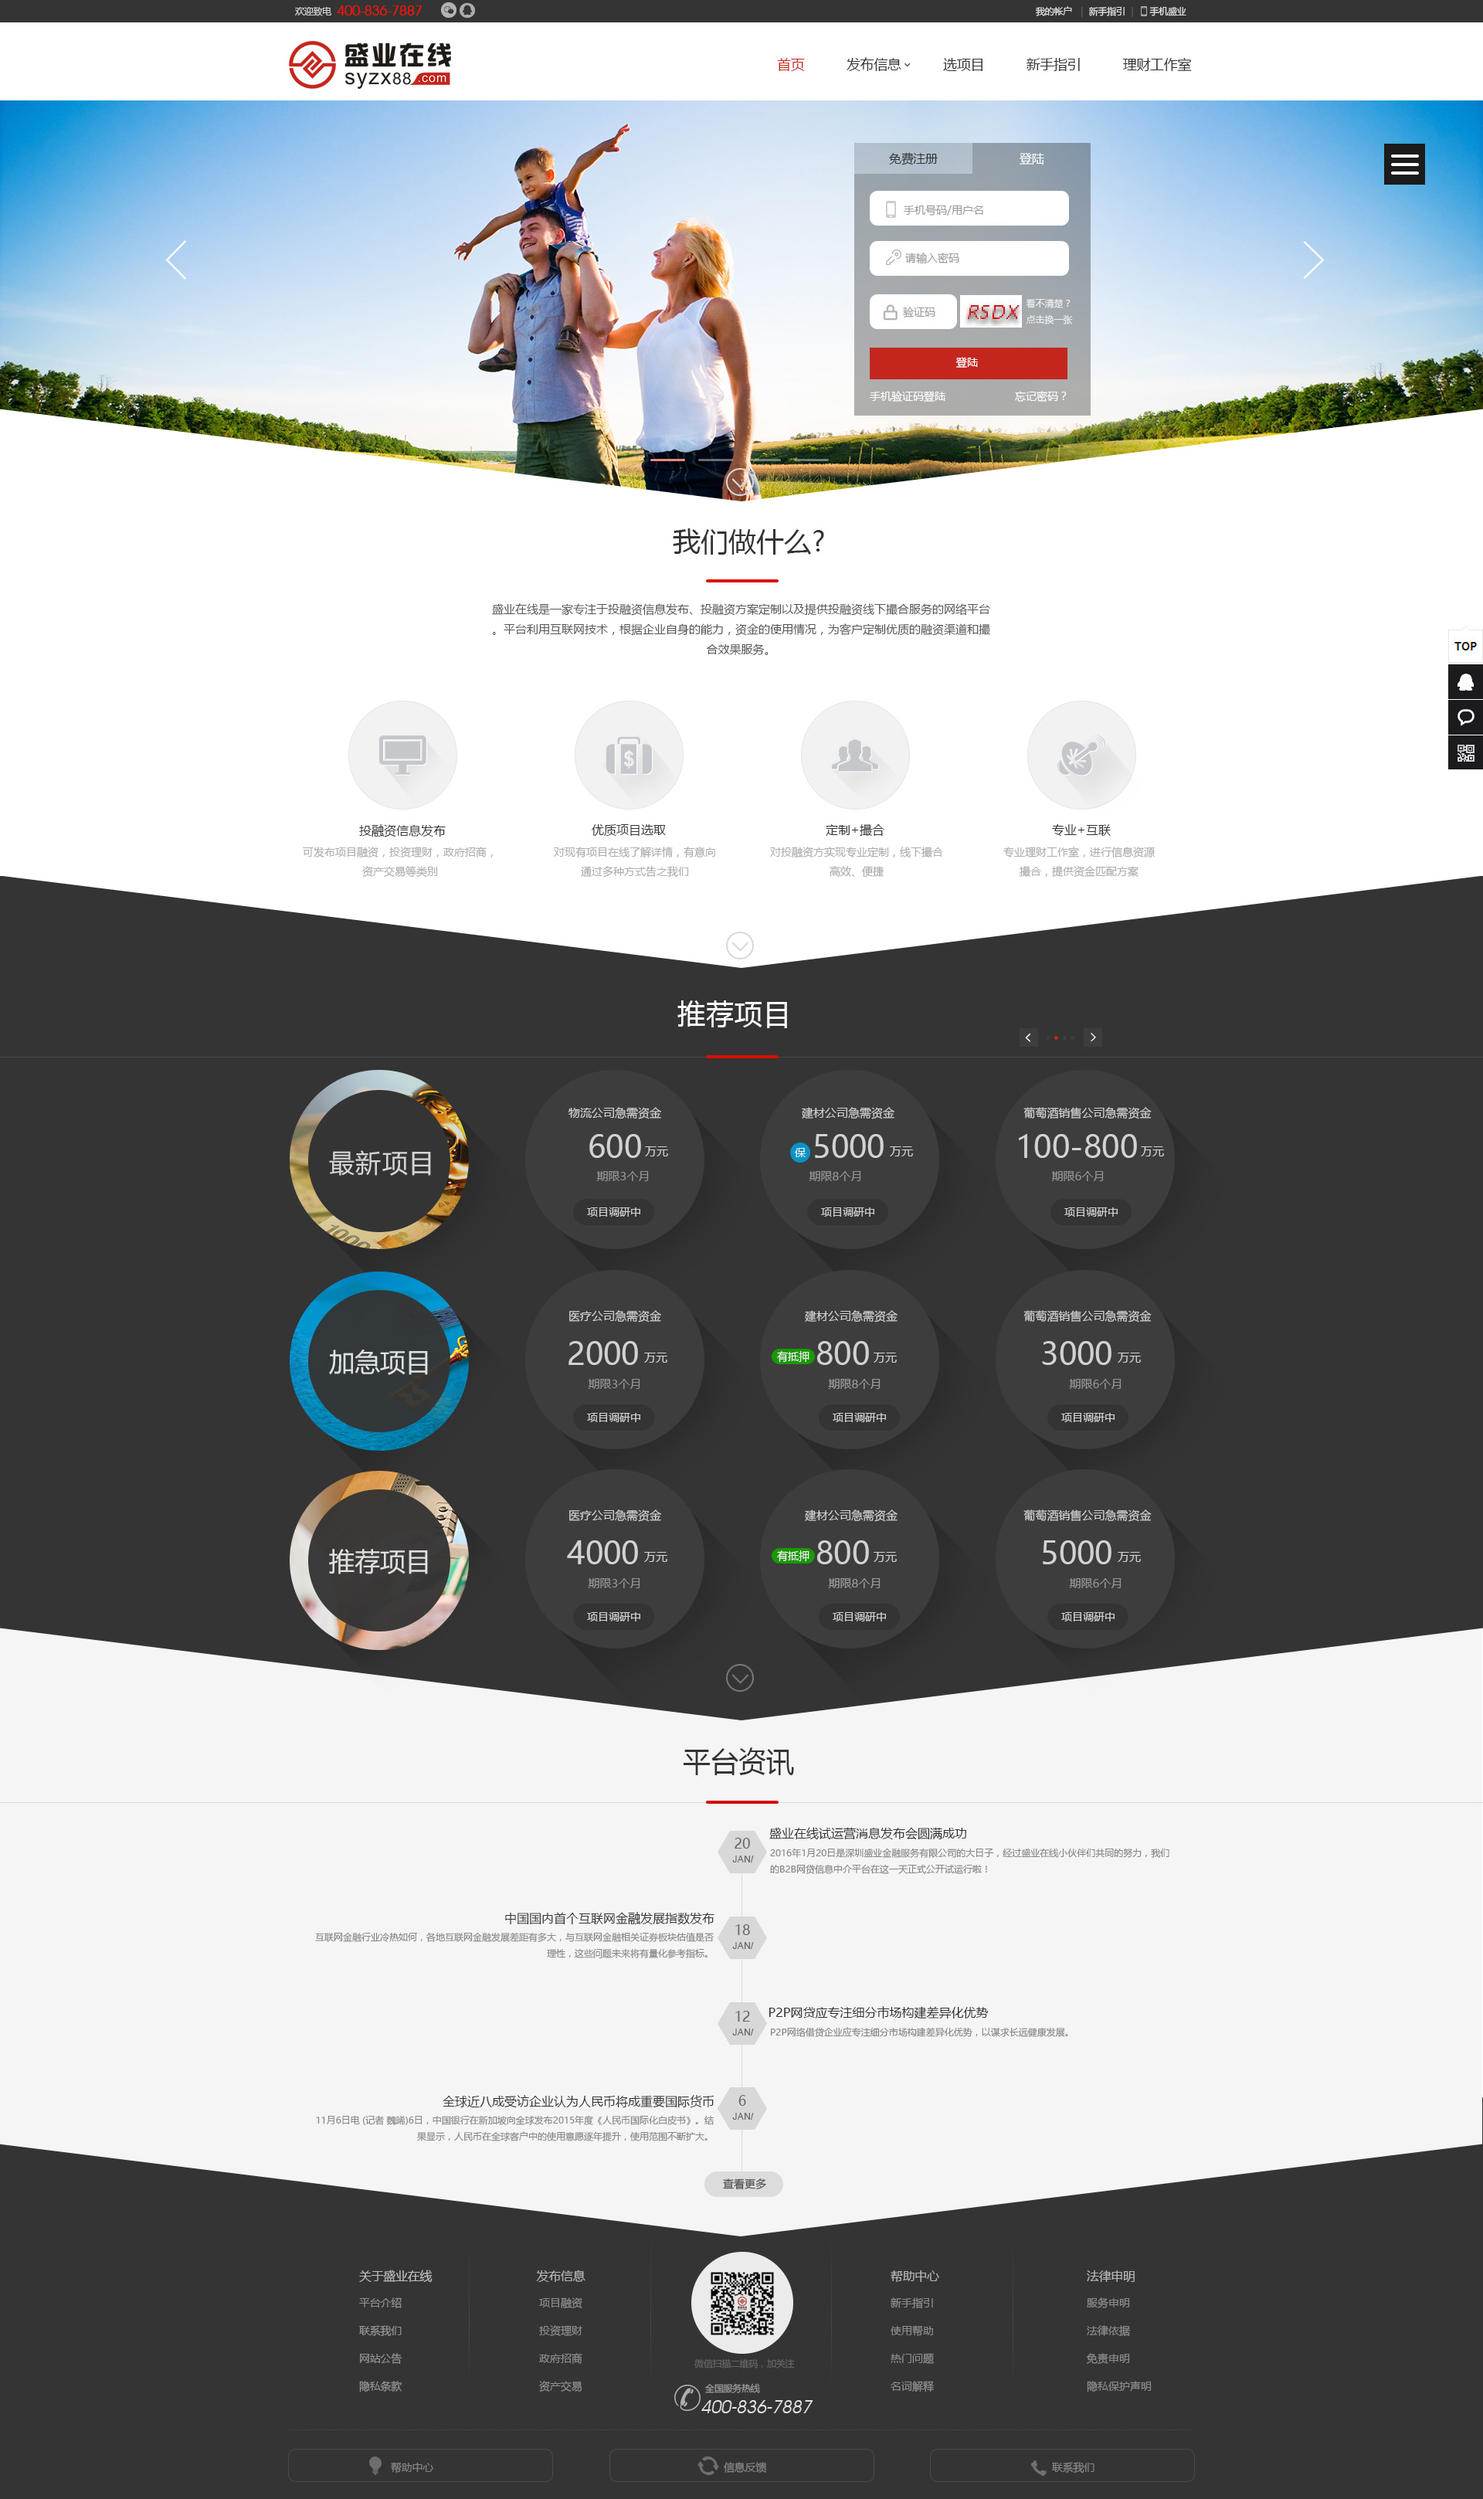
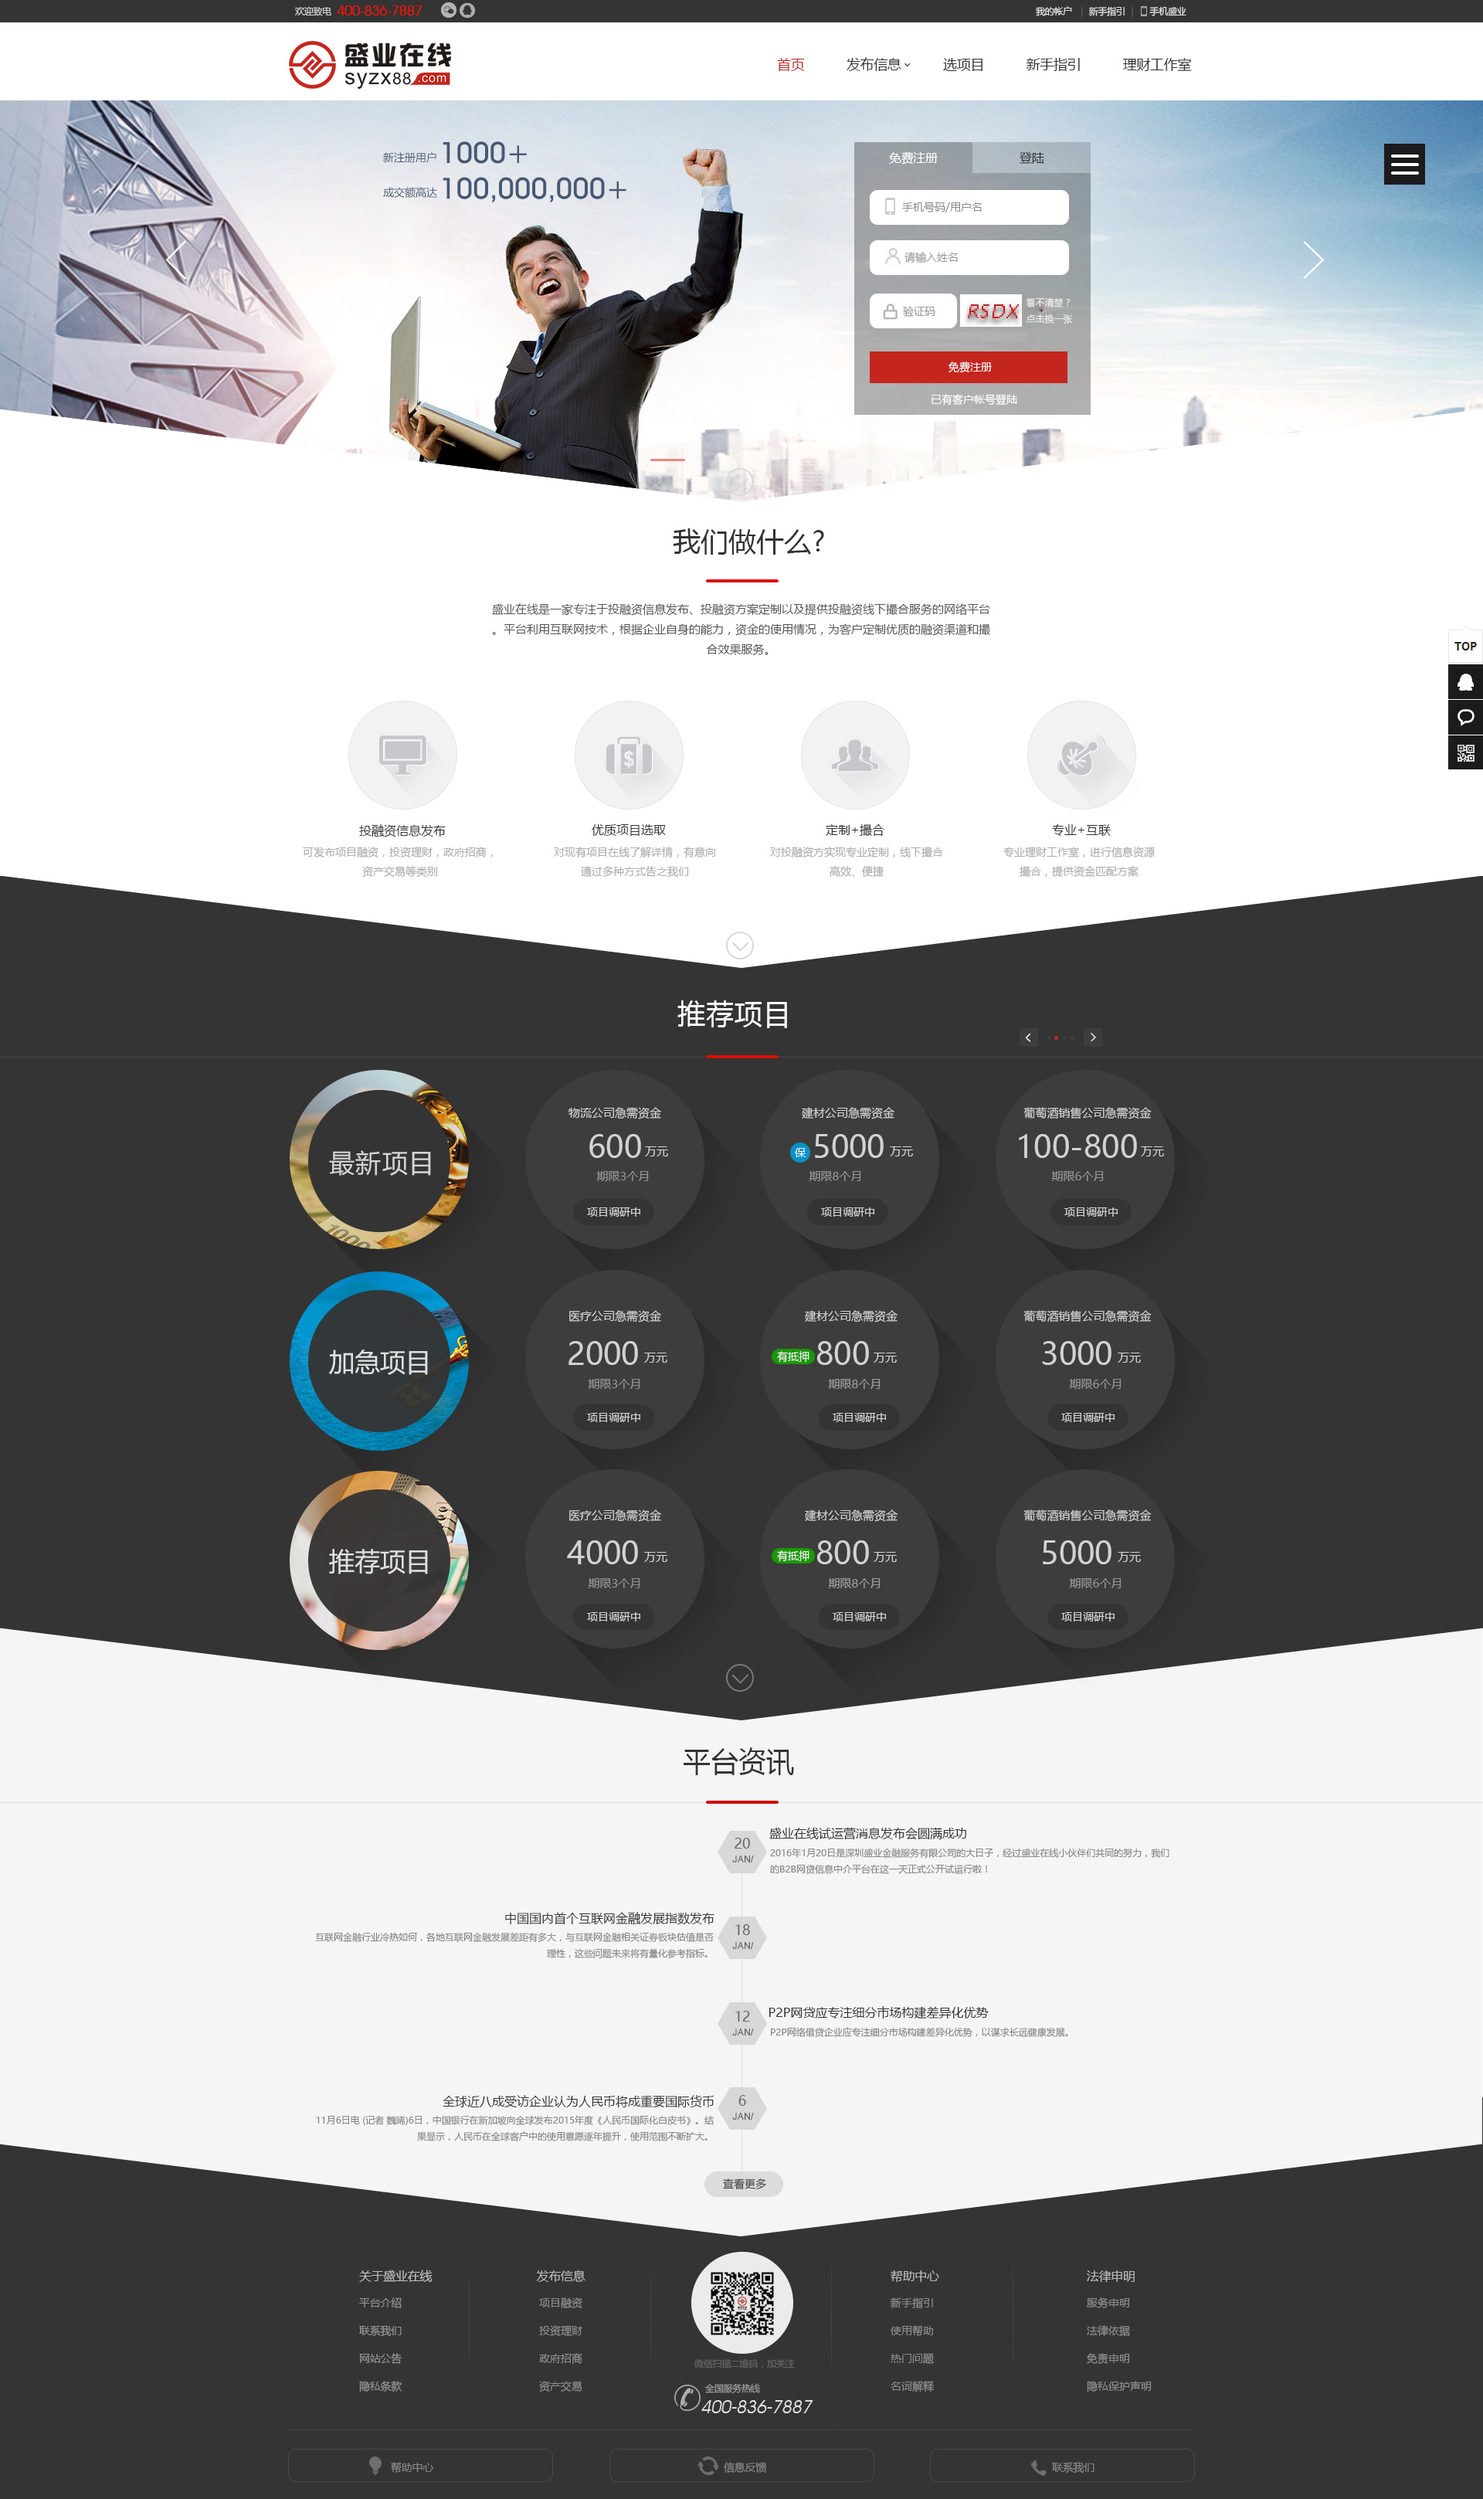
test

Changed region(s): [[0.0, 0.0312, 1.0, 0.2185]]

diff --git a/index.html b/index.html
@@ -59,20 +59,20 @@ body {
     <td align="center"><a href="news-xx.html" target="_blank">新闻详细</a></td>
   </tr>
   <tr>
-    <td height="40" align="center">&nbsp;</td>
+    <td height="40" align="center"><a href="ibannar1.html" target="_blank">首页bannar1</a></td>
      <td align="center"><a href="zccg.html" target="_blank">资产交易</a></td>
     
     <td align="center"><a href="tzlist.html" target="_blank">投资理财列表</a></td>
     <td align="center"><a href="bzzx.html" target="_blank">帮助中心</a></td>
   </tr>
   <tr>
-    <td height="40" align="center"><a href="ddshz.html" target="_blank"></a></td>
+    <td height="40" align="center"><a href="ibannar2.html" target="_blank">首页bannar2</a></td>
     <td align="center"><a href="xxfbxlist.html" target="_blank">信息发布列表</a></td>
     <td align="center"><a href="tzxx.html" target="_blank">投资理财详情</a></td>
     <td align="center"><a href="lcgzs.html" target="_blank">理财工作室</a></td>
   </tr>
   <tr>
-    <td height="40" align="center"><a href="yjj.html" target="_blank"></a></td>
+    <td height="40" align="center">&nbsp;</td>
     <td align="center"><a href="wdrz.html" target="_blank">我的融资</a></td>
     <td align="center"><a href="zfzslis.html" target="_blank">政府招商列表</a></td>
     <td align="center"><a href="xszy.html" target="_blank">新手指引</a></td>

diff --git a/ibannar1.html b/ibannar1.html
@@ -1,0 +1,18 @@
+<html>
+<head>
+<title>盛业在线-B2B融资专家</title>
+<meta http-equiv="Content-Type" content="text/html; charset=utf-8">
+</head>
+<style>
+
+</style>
+<body bgcolor="#E2E2E2" leftmargin="0" topmargin="0" marginwidth="0" marginheight="0">
+<table width="100%" border="0" cellspacing="0" cellpadding="0" style="background:url(images/ibannar1.jpg) no-repeat center center;">
+  <tr>
+    <td width="100%" height="3235">&nbsp;</td>
+  </tr>
+</table>
+
+
+</body>
+</html>

diff --git a/ibannar2.html b/ibannar2.html
@@ -1,0 +1,18 @@
+<html>
+<head>
+<title>盛业在线-B2B融资专家</title>
+<meta http-equiv="Content-Type" content="text/html; charset=utf-8">
+</head>
+<style>
+
+</style>
+<body bgcolor="#E2E2E2" leftmargin="0" topmargin="0" marginwidth="0" marginheight="0">
+<table width="100%" border="0" cellspacing="0" cellpadding="0" style="background:url(images/ibannar2.jpg) no-repeat center center;">
+  <tr>
+    <td width="100%" height="3235">&nbsp;</td>
+  </tr>
+</table>
+
+
+</body>
+</html>

diff --git a/ibannar3.html b/ibannar3.html
@@ -1,0 +1,18 @@
+<html>
+<head>
+<title>盛业在线-B2B融资专家</title>
+<meta http-equiv="Content-Type" content="text/html; charset=utf-8">
+</head>
+<style>
+
+</style>
+<body bgcolor="#E2E2E2" leftmargin="0" topmargin="0" marginwidth="0" marginheight="0">
+<table width="100%" border="0" cellspacing="0" cellpadding="0" style="background:url(images/ibannar3.jpg) no-repeat center center;">
+  <tr>
+    <td width="100%" height="3235">&nbsp;</td>
+  </tr>
+</table>
+
+
+</body>
+</html>
